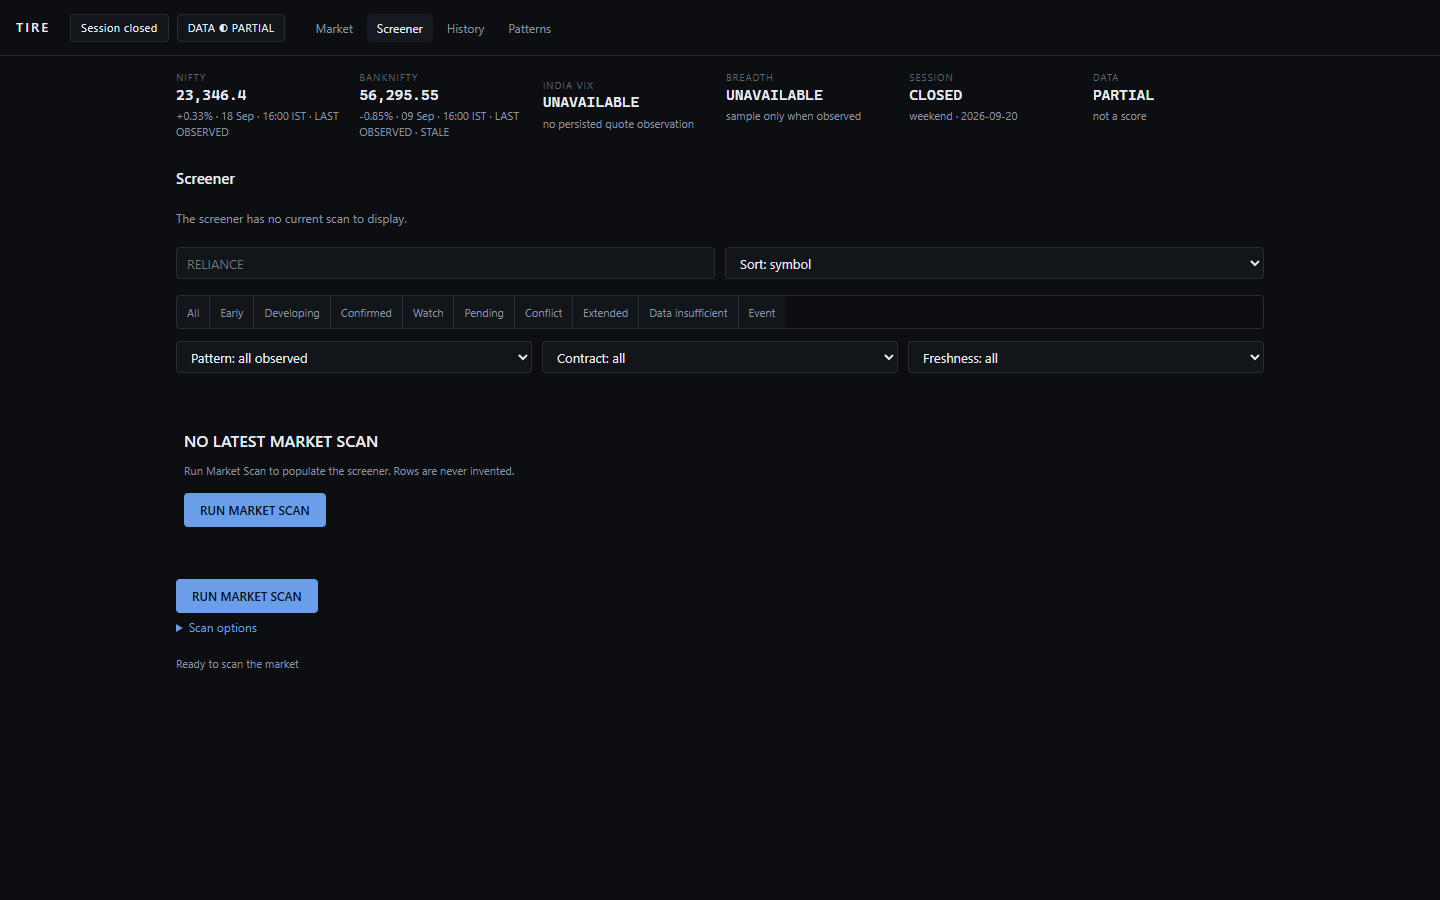
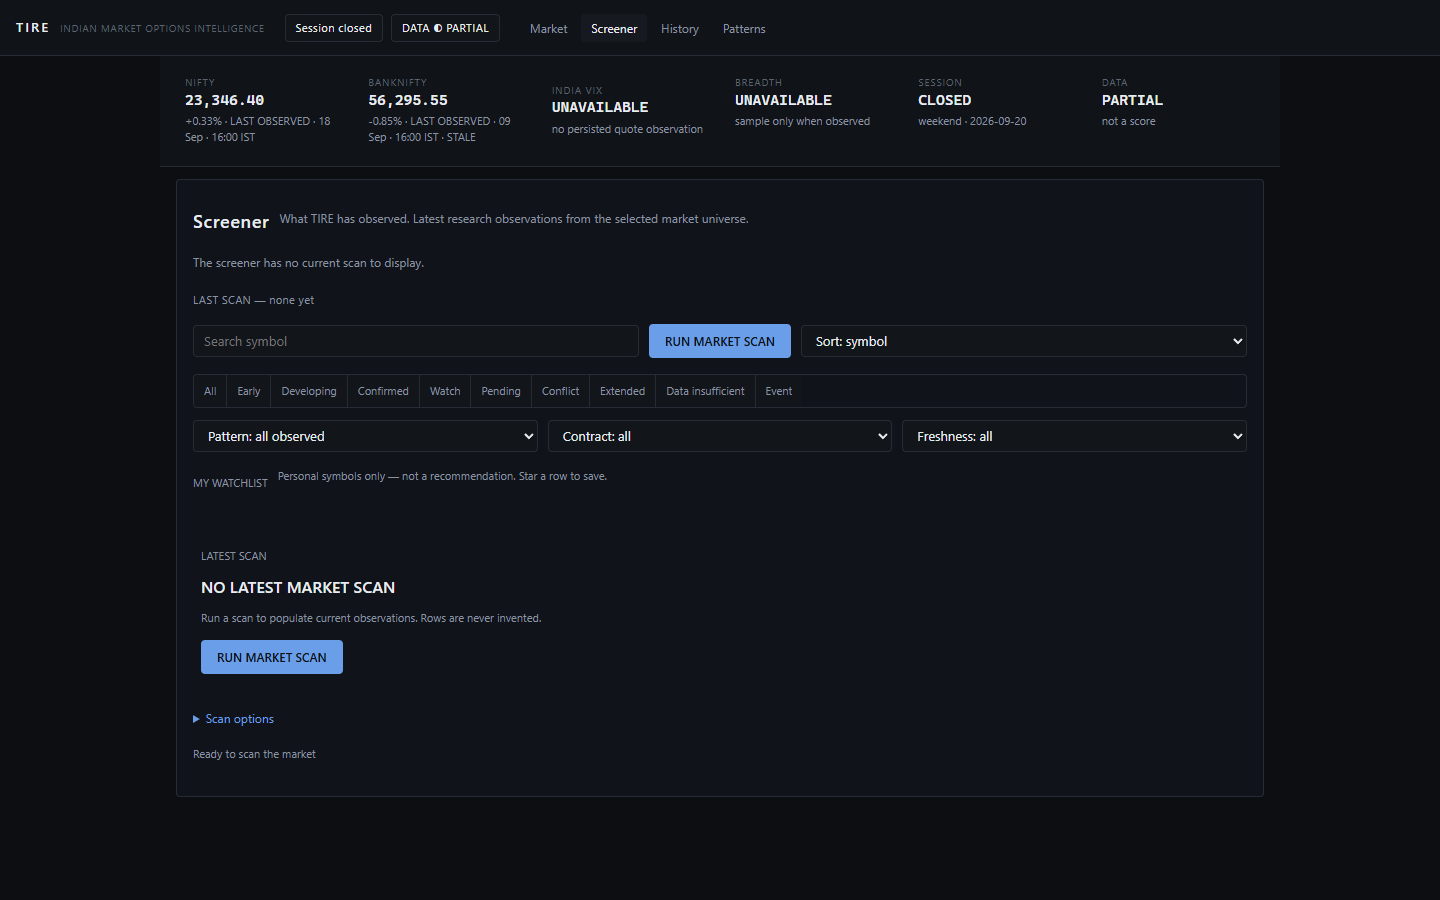
polish: layered terminal surfaces and a screener-first workspace
Keep the approved architecture. Deepen graphite surfaces, show compact TIRE identity, put last-observed market prints and scan actions in the primary workspace, and keep the mobile header within 96px.

diff --git a/app/api/static/index.html b/app/api/static/index.html
@@ -59,6 +59,15 @@
     font-size: 13px;
     line-height: 1.45;
   }
+  .surface-chrome { background: #101318; }
+  .surface-market { background: #101318; border-bottom: 1px solid var(--border); }
+  .surface-workspace {
+    background: #10141a;
+    border: 1px solid var(--border);
+    border-radius: var(--radius);
+    padding: 16px 16px 20px;
+  }
+  .surface-table-head { background: #14181f; }
   header {
     padding: 10px 20px;
     border-bottom: 1px solid var(--border);
@@ -226,6 +235,8 @@
     padding: 0 16px;
     display: flex;
     align-items: center;
+    background: #101318;
+    border-bottom: 1px solid var(--border);
   }
   header.app-chrome .chrome-row {
     display: flex;
@@ -234,8 +245,19 @@
     width: 100%;
     flex-wrap: nowrap;
   }
+  header.app-chrome .brand { display: flex; align-items: baseline; gap: 10px; min-width: 0; }
   header.app-chrome h1 { font-size: 13px; letter-spacing: 0.16em; font-weight: 600; }
-  header.app-chrome .sub { display: none; }
+  header.app-chrome .sub {
+    display: inline;
+    margin: 0;
+    font-size: 10px;
+    letter-spacing: 0.06em;
+    text-transform: uppercase;
+    color: var(--ink-faint);
+    white-space: nowrap;
+    overflow: hidden;
+    text-overflow: ellipsis;
+  }
   .chrome-meta { display: flex; align-items: center; gap: 8px; flex-shrink: 0; }
   .session-pill, .data-pill {
     display: inline-flex;
@@ -277,12 +299,13 @@
     gap: 12px;
     max-width: var(--max);
     margin: 0 auto;
-    padding: 14px 16px 4px;
-    background: var(--bg);
-    border-bottom: 0;
+    padding: 12px 16px 14px;
+    background: #101318;
+    border-bottom: 1px solid var(--border);
   }
-  .glance-cell { min-width: 0; background: transparent; border: 0; padding: 0; text-align: left; color: inherit; font: inherit; }
+  .glance-cell { min-width: 0; background: transparent; border: 1px solid transparent; border-radius: var(--radius); padding: 6px 8px; text-align: left; color: inherit; font: inherit; }
   .glance-cell.clickable { cursor: pointer; }
+  .glance-cell.clickable:hover { border-color: var(--border); background: #14181f; }
   .glance-cell.clickable:focus { outline: 1px solid var(--accent); outline-offset: 2px; }
   .glance-cell .k { color: var(--ink-faint); font-size: 10px; letter-spacing: 0.08em; text-transform: uppercase; }
   .glance-cell .v { font-family: var(--mono); font-size: 15px; font-weight: 600; font-variant-numeric: tabular-nums; }
@@ -313,8 +336,10 @@
   #header-badges { display: none; }
   #system-status { display: none; }
   .screener-toolbar { display: flex; flex-wrap: wrap; gap: 8px 10px; align-items: center; margin: 12px 0 16px; }
-  .screener-toolbar h1 { margin: 0; font-size: 15px; font-weight: 600; }
+  .screener-toolbar h1 { margin: 0; font-size: 18px; font-weight: 600; letter-spacing: 0.04em; }
   .screener-toolbar .note { color: var(--muted); font-size: 12px; width: 100%; }
+  .screener-lead { width: 100%; margin: 0 0 4px; color: var(--muted); font-size: 12px; max-width: 42em; }
+  .last-scan-meta { width: 100%; margin: 0 0 8px; color: var(--muted); font-size: 11px; letter-spacing: 0.03em; }
   .screener-toolbar input[type="search"], .screener-toolbar select {
     height: 32px; flex: 1 1 160px; min-width: 0;
     background: var(--bg-elev); border: 1px solid var(--border); color: var(--text);
@@ -324,6 +349,7 @@
   table.screener th {
     text-align: left; font-size: 10px; letter-spacing: 0.07em; text-transform: uppercase;
     color: var(--ink-faint); font-weight: 600; padding: 8px 10px; border-bottom: 1px solid var(--border);
+    background: #14181f;
   }
   table.screener td { padding: 11px 10px; vertical-align: middle; border-bottom: 1px solid var(--border); }
   table.screener td:nth-child(1) { font-family: var(--mono); font-weight: 600; letter-spacing: 0.04em; }
@@ -359,6 +385,7 @@
   }
   @media (max-width: 720px) {
     header.app-chrome { height: auto; min-height: 48px; padding: 8px 12px; }
+    header.app-chrome .sub { display: none; }
     header.app-chrome .chrome-row { flex-wrap: wrap; gap: 8px; }
     .primary-nav { order: 3; width: 100%; }
     .primary-nav button { flex: 1; min-height: 32px; }
@@ -377,9 +404,9 @@
 <body>
 <header class="app-chrome">
   <div class="chrome-row">
-    <div>
+    <div class="brand">
       <h1>TIRE</h1>
-      <p class="sub">Indian Market Intelligence — read-only research terminal — no order execution</p>
+      <p class="sub">Indian Market Options Intelligence</p>
     </div>
     <div class="chrome-meta">
       <span class="session-pill" id="session-pill" title="NSE calendar plus IST clock. Not a live exchange ping.">Session …</span>
@@ -399,8 +426,8 @@
   <div id="system-status" class="status-row"></div>
 </header>
 <div class="market-glance" id="market-glance" aria-label="Market at a glance">
-  <button type="button" class="glance-cell clickable" data-analyze="NIFTY"><div class="k">Nifty</div><div class="v" id="glance-nifty">UNAVAILABLE</div><div class="d" id="glance-nifty-d">not observed yet</div></button>
-  <button type="button" class="glance-cell clickable" data-analyze="BANKNIFTY"><div class="k">Banknifty</div><div class="v" id="glance-banknifty">UNAVAILABLE</div><div class="d" id="glance-banknifty-d">not observed yet</div></button>
+  <button type="button" class="glance-cell clickable" data-analyze="NIFTY"><div class="k">NIFTY</div><div class="v" id="glance-nifty">UNAVAILABLE</div><div class="d" id="glance-nifty-d">not observed yet</div></button>
+  <button type="button" class="glance-cell clickable" data-analyze="BANKNIFTY"><div class="k">BANKNIFTY</div><div class="v" id="glance-banknifty">UNAVAILABLE</div><div class="d" id="glance-banknifty-d">not observed yet</div></button>
   <button type="button" class="glance-cell clickable" data-analyze="INDIA VIX"><div class="k">India VIX</div><div class="v" id="glance-vix">UNAVAILABLE</div><div class="d" id="glance-vix-d">not observed yet</div></button>
   <div class="glance-cell"><div class="k">Breadth</div><div class="v" id="glance-breadth">UNAVAILABLE</div><div class="d" id="glance-breadth-d">sample only when observed</div></div>
   <div class="glance-cell"><div class="k">Session</div><div class="v" id="glance-session">…</div><div class="d" id="glance-session-d">calendar + IST clock</div></div>
@@ -414,14 +441,16 @@
        research-priority ordering, never a recommendation: the real
        ACTIONABILITY shown per opportunity is copied verbatim from that
        symbol's own decision engine result, never upgraded here. -->
-  <section id="daily-research">
+  <section id="daily-research" class="surface-workspace">
     <div class="screener-toolbar">
       <h1>Screener</h1>
+      <p class="screener-lead">What TIRE has observed. Latest research observations from the selected market universe.</p>
       <p class="note" id="source-note">Latest market scan only — not a prediction, not BUY/SELL</p>
       <p class="hint" id="market-status-line" hidden>Market Status: loading…</p>
-      <p class="hint" id="last-scan-line" hidden>Last scan: none yet</p>
+      <p class="last-scan-meta" id="last-scan-line">LAST SCAN — none yet</p>
       <p class="hint" id="scan-progress-line" hidden>Ready to scan the market</p>
-      <input id="screener-search" type="search" placeholder="RELIANCE" autocomplete="off" aria-label="Search symbols">
+      <input id="screener-search" type="search" placeholder="Search symbol" autocomplete="off" aria-label="Search symbols">
+      <button type="button" id="research-btn">RUN MARKET SCAN</button>
       <select id="screener-sort" aria-label="Sort screener">
         <option value="symbol">Sort: symbol</option>
         <option value="state">Sort: state</option>
@@ -459,11 +488,8 @@
         <option value="STALE">Stale</option>
       </select>
     </div>
-    <div class="watch-bar" id="personal-watchlist" hidden></div>
+    <div class="watch-bar" id="personal-watchlist"></div>
     <div id="screener-table-host"></div>
-    <div class="search-row" style="margin-top:16px">
-      <button id="research-btn">RUN MARKET SCAN</button>
-    </div>
     <details id="scan-details">
     <summary>Scan options</summary>
     <p class="hint">Blank symbols = whole F&amp;O universe — not a prediction, not BUY/SELL. Named symbols run the same research pipeline, not invented rows.</p>
@@ -1055,7 +1081,7 @@ function formatObservedCell(cell) {
     return { v: "UNAVAILABLE", d: (cell && cell.unavailable_reason) || "no trustworthy observation" };
   }
   const n = Number(cell.last_price);
-  const price = Number.isFinite(n) ? n.toLocaleString("en-IN", { maximumFractionDigits: 2 }) : String(cell.last_price);
+  const price = Number.isFinite(n) ? n.toLocaleString("en-IN", { minimumFractionDigits: 2, maximumFractionDigits: 2 }) : String(cell.last_price);
   let move = "";
   if (cell.day_change_pct !== null && cell.day_change_pct !== undefined) {
     const p = Number(cell.day_change_pct);
@@ -1065,7 +1091,7 @@ function formatObservedCell(cell) {
   const fresh = cell.freshness_label && cell.freshness_label !== "MARKET_CLOSED" && cell.freshness_label !== "LIVE"
     ? cell.freshness_label.replace(/_/g, " ")
     : "";
-  return { v: price, d: [move, cell.observed_at_ist, kind, fresh].filter(Boolean).join(" · ") };
+  return { v: price, d: [move, kind, cell.observed_at_ist, fresh].filter(Boolean).join(" · ") };
 }
 
 function applyObservedMarket(data) {
@@ -1104,9 +1130,12 @@ function renderPersonalWatch() {
   if (!host) return;
   const list = loadPersonalWatch();
   host.innerHTML = "";
-  if (!list.length) { host.hidden = true; return; }
   host.hidden = false;
   host.appendChild(el("span", { class: "chip-label", text: "MY WATCHLIST" }));
+  if (!list.length) {
+    host.appendChild(el("span", { class: "hint", text: "Personal symbols only — not a recommendation. Star a row to save." }));
+    return;
+  }
   list.forEach((sym) => {
     const row = screenerRows.find((o) => o.symbol === sym);
     const btn = el("button", { type: "button", class: "watch-chip", text: row
@@ -1206,8 +1235,9 @@ function renderScreenerTable() {
   }
   if (!lastDiscoverResult) {
     const empty = el("div", { class: "empty-state" });
+    empty.appendChild(el("p", { class: "chip-label", text: "LATEST SCAN" }));
     empty.appendChild(el("h3", { text: "NO LATEST MARKET SCAN" }));
-    empty.appendChild(el("p", { class: "hint", text: "Run Market Scan to populate the screener. Rows are never invented." }));
+    empty.appendChild(el("p", { class: "hint", text: "Run a scan to populate current observations. Rows are never invented." }));
     const run = el("button", { type: "button", text: "RUN MARKET SCAN" });
     run.addEventListener("click", () => document.getElementById("research-btn").click());
     empty.appendChild(run);
@@ -1658,7 +1688,7 @@ function updateScanProgress(job) {
   if (!line) return;
   if (!job || job.status === "NONE") {
     line.textContent = "Ready to scan the market";
-    if (last) last.textContent = "Last scan: none yet";
+    if (last) last.textContent = "LAST SCAN — none yet";
     return;
   }
   if (job.status === "QUEUED" || job.status === "RUNNING") {
@@ -1700,8 +1730,13 @@ function updateScanProgress(job) {
   line.textContent = selected
     ? ("Scan complete · " + modeLabel + " · " + selected + " selected · " + returned + " observations")
     : ("Scan complete · " + modeLabel);
-  if (last && job.result && job.result.generated_at) {
-    last.textContent = "Last scan (" + modeLabel + "): " + new Date(job.result.generated_at).toLocaleString();
+  if (last) {
+    const when = (job.result && job.result.generated_at)
+      ? new Date(job.result.generated_at).toLocaleString("en-IN", { timeZone: "Asia/Kolkata", day: "2-digit", month: "short", hour: "2-digit", minute: "2-digit" }) + " IST"
+      : "";
+    last.textContent = ("LAST SCAN" + (when ? " · " + when : "") + " · MODE: " + modeLabel
+      + (selected ? (" · " + selected + " SYMBOLS") : "")
+      + " · " + returned + " OBSERVATION" + (returned === 1 ? "" : "S"));
   }
 }
 

diff --git a/tests/integration/api/test_live_operation_api.py b/tests/integration/api/test_live_operation_api.py
@@ -581,6 +581,9 @@ def test_dashboard_html_does_not_infer_timing_or_confuse_analysis_clock() -> Non
     assert "EXPLICIT · ANALYSING" in html or "SELECTED SYMBOLS" in html
     assert "F&O UNIVERSE" in html
     assert "NO LATEST MARKET SCAN" in html
+    assert "Indian Market Options Intelligence" in html
+    assert "What TIRE has observed" in html
+    assert "surface-workspace" in html
     assert "ANALYSIS GENERATED" in html
     assert "if (analyzingQuery !== wanted)" in html
     # Per-stream glance times come from the observed-market payload.
